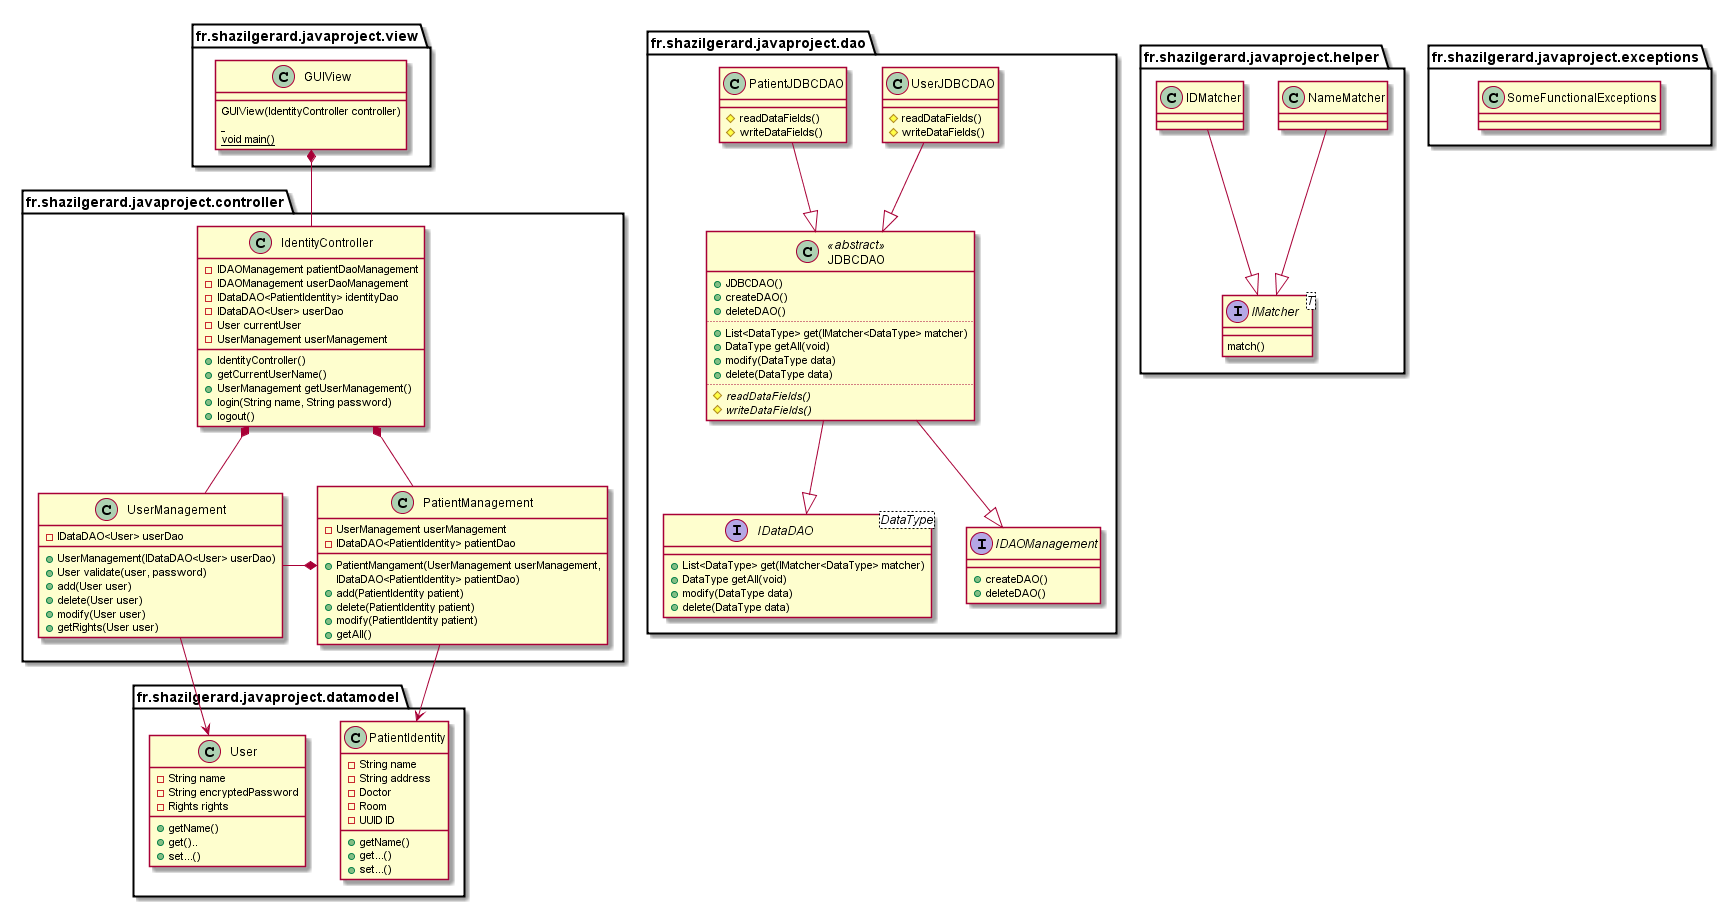
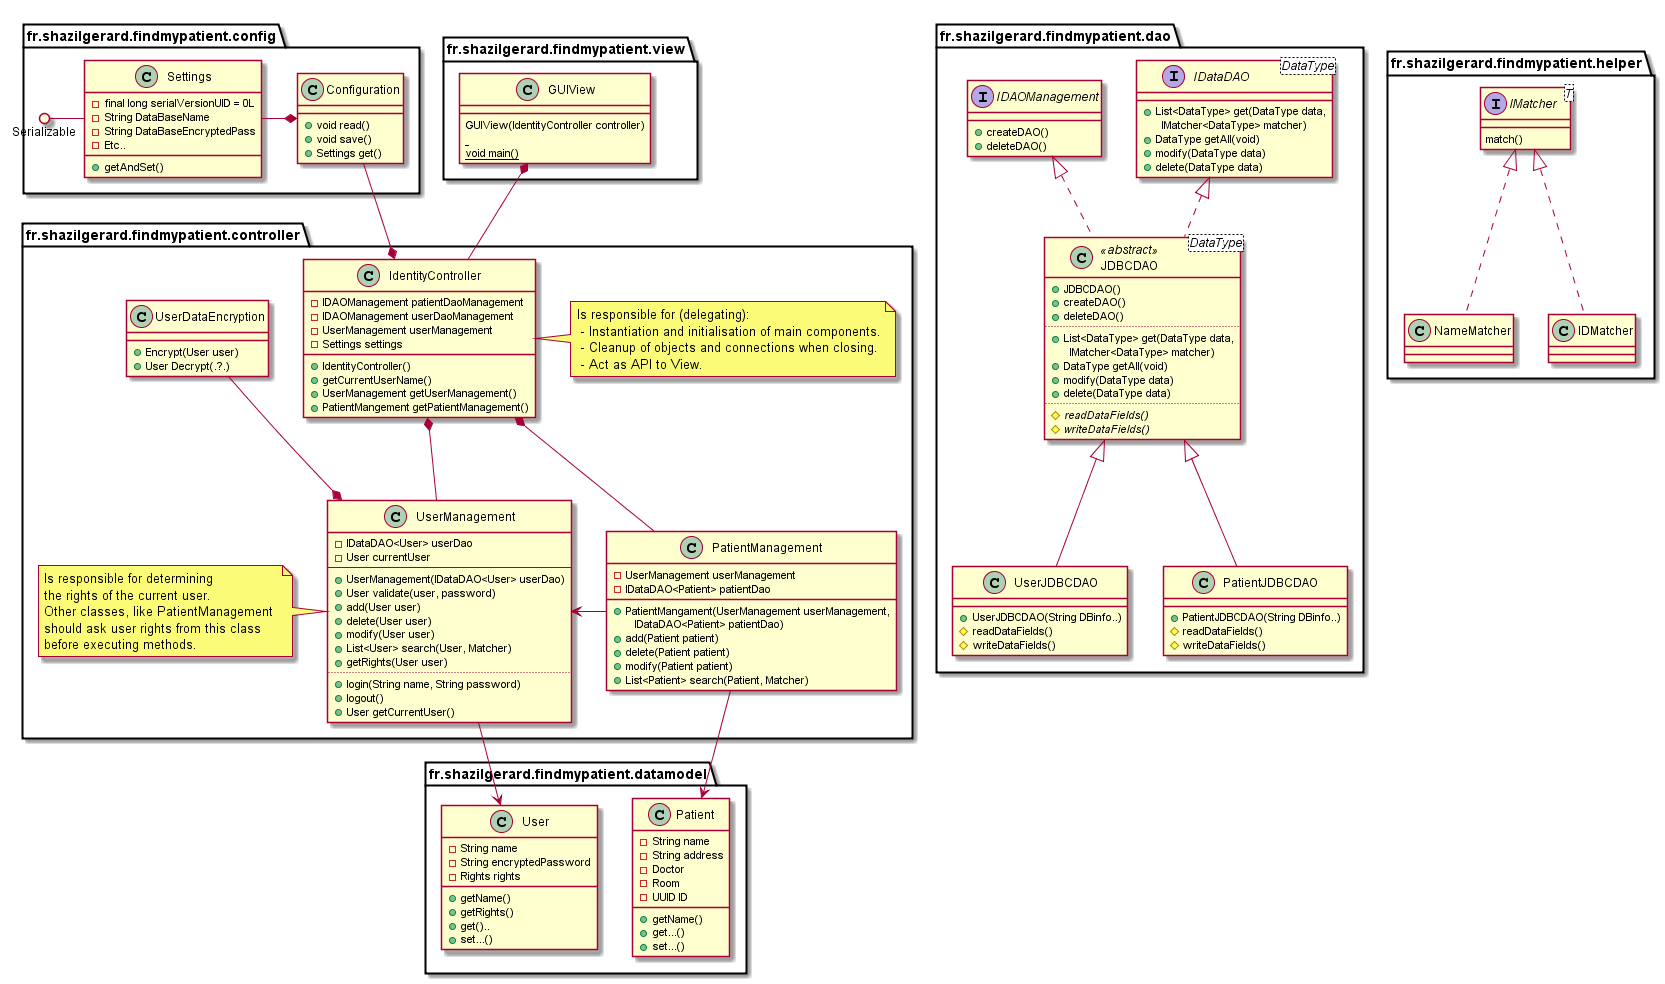
Updated Architecture, added notes.

diff --git a/SourceCode/src/fr/shazilgerard/findmypatient/dao/UserJDBCDAO.java b/SourceCode/src/fr/shazilgerard/findmypatient/dao/UserJDBCDAO.java
@@ -3,13 +3,61 @@
  */
 package fr.shazilgerard.findmypatient.dao;
 
+import java.util.List;
+
 import fr.shazilgerard.findmypatient.datamodel.Patient;
 import fr.shazilgerard.findmypatient.datamodel.User;
+import fr.shazilgerard.findmypatient.helpers.IMatcher;
 
 /**
  * @author Gerard
  *
  */
 public class UserJDBCDAO extends JDBCDAO<User> {
+
+	/* (non-Javadoc)
+	 * @see fr.shazilgerard.findmypatient.dao.IDataDAO#create(java.lang.Object)
+	 */
+	@Override
+	public void create(User data) {
+		// TODO Auto-generated method stub
+		
+	}
+
+	/* (non-Javadoc)
+	 * @see fr.shazilgerard.findmypatient.dao.IDataDAO#readAll()
+	 */
+	@Override
+	public List<User> readAll() {
+		// TODO Auto-generated method stub
+		return null;
+	}
+
+	/* (non-Javadoc)
+	 * @see fr.shazilgerard.findmypatient.dao.IDataDAO#search(java.lang.Object)
+	 */
+	@Override
+	public List<User> search(User data, IMatcher<User> matcher) {
+		// TODO Auto-generated method stub
+		return null;
+	}
+
+	/* (non-Javadoc)
+	 * @see fr.shazilgerard.findmypatient.dao.IDataDAO#update(java.lang.Object)
+	 */
+	@Override
+	public boolean update(User data) {
+		// TODO Auto-generated method stub
+		return false;
+	}
+
+	/* (non-Javadoc)
+	 * @see fr.shazilgerard.findmypatient.dao.IDataDAO#delete(java.lang.Object)
+	 */
+	@Override
+	public void delete(User data) {
+		// TODO Auto-generated method stub
+		
+	}
 
 }

diff --git a/SourceCode/src/fr/shazilgerard/findmypatient/controller/IdentityController.java b/SourceCode/src/fr/shazilgerard/findmypatient/controller/IdentityController.java
@@ -3,15 +3,22 @@
  */
 package fr.shazilgerard.findmypatient.controller;
 
+import fr.shazilgerard.findmypatient.config.Settings;
 import fr.shazilgerard.findmypatient.dao.IDAOManagement;
 import fr.shazilgerard.findmypatient.dao.PatientJDBCDAO;
 import fr.shazilgerard.findmypatient.dao.UserJDBCDAO;
 
 /**
  * @author Gerard
+ * 
+ * The Identity controller is in charge of reading local settings, 
+ * creating the sub classes and providing access based on current login 
+ * User. 
  *
  */
 public class IdentityController {
+	private Settings settings;
+	
 	private UserManagement userManagement;
 	private PatientManagement patientManagement;
 	
@@ -20,6 +27,8 @@ public class IdentityController {
 	
 	public IdentityController()
 	{
+		settings = new Settings();
+		
 		// Create UserJDBCDAO, save the management for cleanup
 		UserJDBCDAO userJDBCDAO = new UserJDBCDAO();
 		this.userDAOManagement = userJDBCDAO;
@@ -31,6 +40,16 @@ public class IdentityController {
 		// Create the Patient and User management, pass the relative DAO's
 		this.userManagement = new UserManagement(userJDBCDAO);
 		this.patientManagement = new PatientManagement(patientJDBCDAO, userManagement);
+	}
+	
+	public UserManagement getUserManagement()
+	{
+		return this.userManagement;
+	}
+	
+	public PatientManagement getPatientManagement()
+	{
+		return this.patientManagement;
 	}
 
 }

diff --git a/SourceCode/src/fr/shazilgerard/findmypatient/dao/PatientJDBCDAO.java b/SourceCode/src/fr/shazilgerard/findmypatient/dao/PatientJDBCDAO.java
@@ -3,12 +3,60 @@
  */
 package fr.shazilgerard.findmypatient.dao;
 
+import java.util.List;
+
 import fr.shazilgerard.findmypatient.datamodel.Patient;
+import fr.shazilgerard.findmypatient.helpers.IMatcher;
 
 /**
  * @author Gerard
  *
  */
 public class PatientJDBCDAO extends JDBCDAO<Patient> {
+
+	/* (non-Javadoc)
+	 * @see fr.shazilgerard.findmypatient.dao.IDataDAO#create(java.lang.Object)
+	 */
+	@Override
+	public void create(Patient data) {
+		// TODO Auto-generated method stub
+		
+	}
+
+	/* (non-Javadoc)
+	 * @see fr.shazilgerard.findmypatient.dao.IDataDAO#readAll()
+	 */
+	@Override
+	public List<Patient> readAll() {
+		// TODO Auto-generated method stub
+		return null;
+	}
+
+	/* (non-Javadoc)
+	 * @see fr.shazilgerard.findmypatient.dao.IDataDAO#search(java.lang.Object)
+	 */
+	@Override
+	public List<Patient> search(Patient data, IMatcher<Patient> matcher) {
+		// TODO Auto-generated method stub
+		return null;
+	}
+
+	/* (non-Javadoc)
+	 * @see fr.shazilgerard.findmypatient.dao.IDataDAO#update(java.lang.Object)
+	 */
+	@Override
+	public boolean update(Patient data) {
+		// TODO Auto-generated method stub
+		return false;
+	}
+
+	/* (non-Javadoc)
+	 * @see fr.shazilgerard.findmypatient.dao.IDataDAO#delete(java.lang.Object)
+	 */
+	@Override
+	public void delete(Patient data) {
+		// TODO Auto-generated method stub
+		
+	}
 
 }

diff --git a/SourceCode/src/fr/shazilgerard/findmypatient/controller/PatientManagement.java b/SourceCode/src/fr/shazilgerard/findmypatient/controller/PatientManagement.java
@@ -3,16 +3,19 @@
  */
 package fr.shazilgerard.findmypatient.controller;
 
+import java.util.List;
+
 import fr.shazilgerard.findmypatient.dao.IDataDAO;
 import fr.shazilgerard.findmypatient.datamodel.Patient;
+import fr.shazilgerard.findmypatient.helpers.IMatcher;
 
 /**
  * @author Gerard
  *
  */
 public class PatientManagement {
-	UserManagement userManagement;
-	IDataDAO<Patient> patientDAO;
+	private UserManagement userManagement;
+	private IDataDAO<Patient> patientDAO;
 	
 	/**
 	 * @param patientDAO DAO responsible for patient data
@@ -23,5 +26,26 @@ public class PatientManagement {
 	{
 		this.userManagement = userManagement;
 		this.patientDAO = patientDAO;
+	}
+	
+	public void add(Patient patient)
+	{
+		// TODO: check rights
+		this.patientDAO.create(patient);
+	}
+	public void delete(Patient patient)
+	{
+		// TODO: check rights
+		this.patientDAO.delete(patient);
+	}
+	public void modify(Patient patient)
+	{
+		this.patientDAO.update(patient);
+		// TODO: check rights
+	}
+	public List<Patient> search(Patient patient, IMatcher<Patient> matcher)
+	{
+		// TODO: check rights
+		return this.patientDAO.search(patient, matcher);
 	}
 }

diff --git a/SourceCode/src/fr/shazilgerard/findmypatient/controller/UserManagement.java b/SourceCode/src/fr/shazilgerard/findmypatient/controller/UserManagement.java
@@ -3,21 +3,42 @@
  */
 package fr.shazilgerard.findmypatient.controller;
 
+import java.util.List;
+
 import fr.shazilgerard.findmypatient.dao.IDataDAO;
-import fr.shazilgerard.findmypatient.datamodel.Patient;
 import fr.shazilgerard.findmypatient.datamodel.User;
+import fr.shazilgerard.findmypatient.helpers.IMatcher;
 
 /**
  * @author Gerard
  *
  */
 public class UserManagement {
+	
+	private IDataDAO<User> userDAO;
 
 	/**
 	 * @param userDAO The DAO responsible for saving and loading user data
 	 */
 	public UserManagement(IDataDAO<User> userDAO)
 	{
+		this.userDAO = userDAO;
+	}
+	
+	public void add(User user)
+	{
+
+	}
+	public void delete(User user)
+	{
 		
+	}
+	public void modify(User user)
+	{
+		
+	}
+	public List<User> find(IMatcher<User> matcher)
+	{
+		return null;
 	}
 }

diff --git a/SourceCode/src/fr/shazilgerard/findmypatient/dao/IDataDAO.java b/SourceCode/src/fr/shazilgerard/findmypatient/dao/IDataDAO.java
@@ -3,10 +3,18 @@
  */
 package fr.shazilgerard.findmypatient.dao;
 
+import java.util.List;
+
+import fr.shazilgerard.findmypatient.helpers.IMatcher;
+
 /**
  * @author Gerard
  *
  */
-public interface IDataDAO<T> {
-
+public interface IDataDAO<DataType> {
+	public void create(DataType data);
+	public List<DataType> readAll();
+	public List<DataType> search(DataType data, IMatcher<DataType> matcher);
+	public boolean update(DataType data);
+	public void delete(DataType data);
 }

diff --git a/SourceCode/src/fr/shazilgerard/findmypatient/helpers/IMatcher.java b/SourceCode/src/fr/shazilgerard/findmypatient/helpers/IMatcher.java
@@ -1,0 +1,12 @@
+/**
+ * 
+ */
+package fr.shazilgerard.findmypatient.helpers;
+
+/**
+ * @author Gerard
+ *
+ */
+public interface IMatcher<DataType> {
+
+}

diff --git a/SourceCode/src/fr/shazilgerard/findmypatient/config/Settings.java b/SourceCode/src/fr/shazilgerard/findmypatient/config/Settings.java
@@ -1,0 +1,12 @@
+/**
+ * 
+ */
+package fr.shazilgerard.findmypatient.config;
+
+/**
+ * @author Gerard
+ *
+ */
+public class Settings {
+
+}
